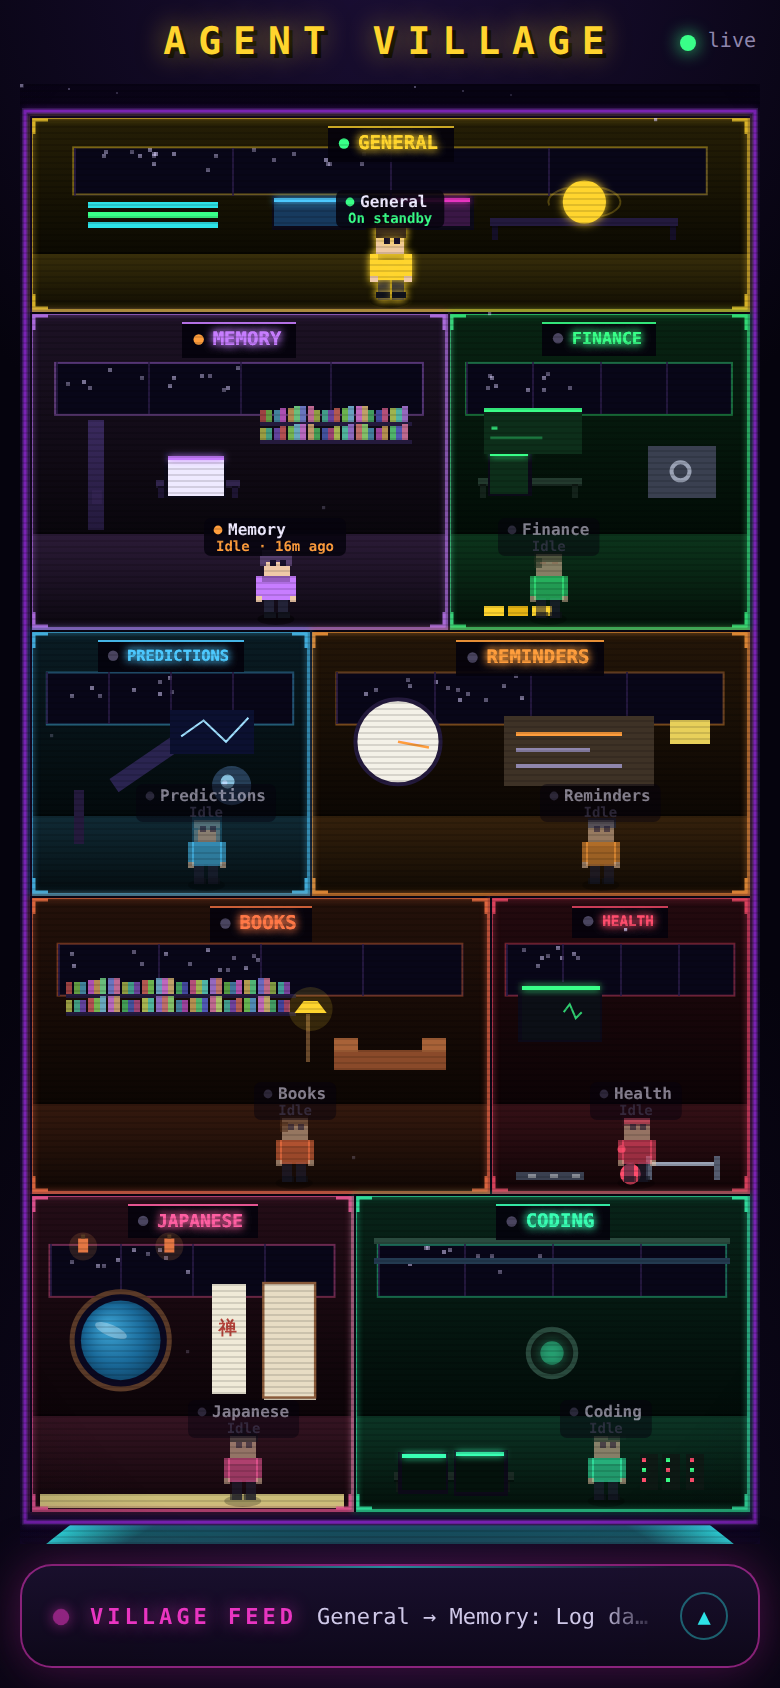
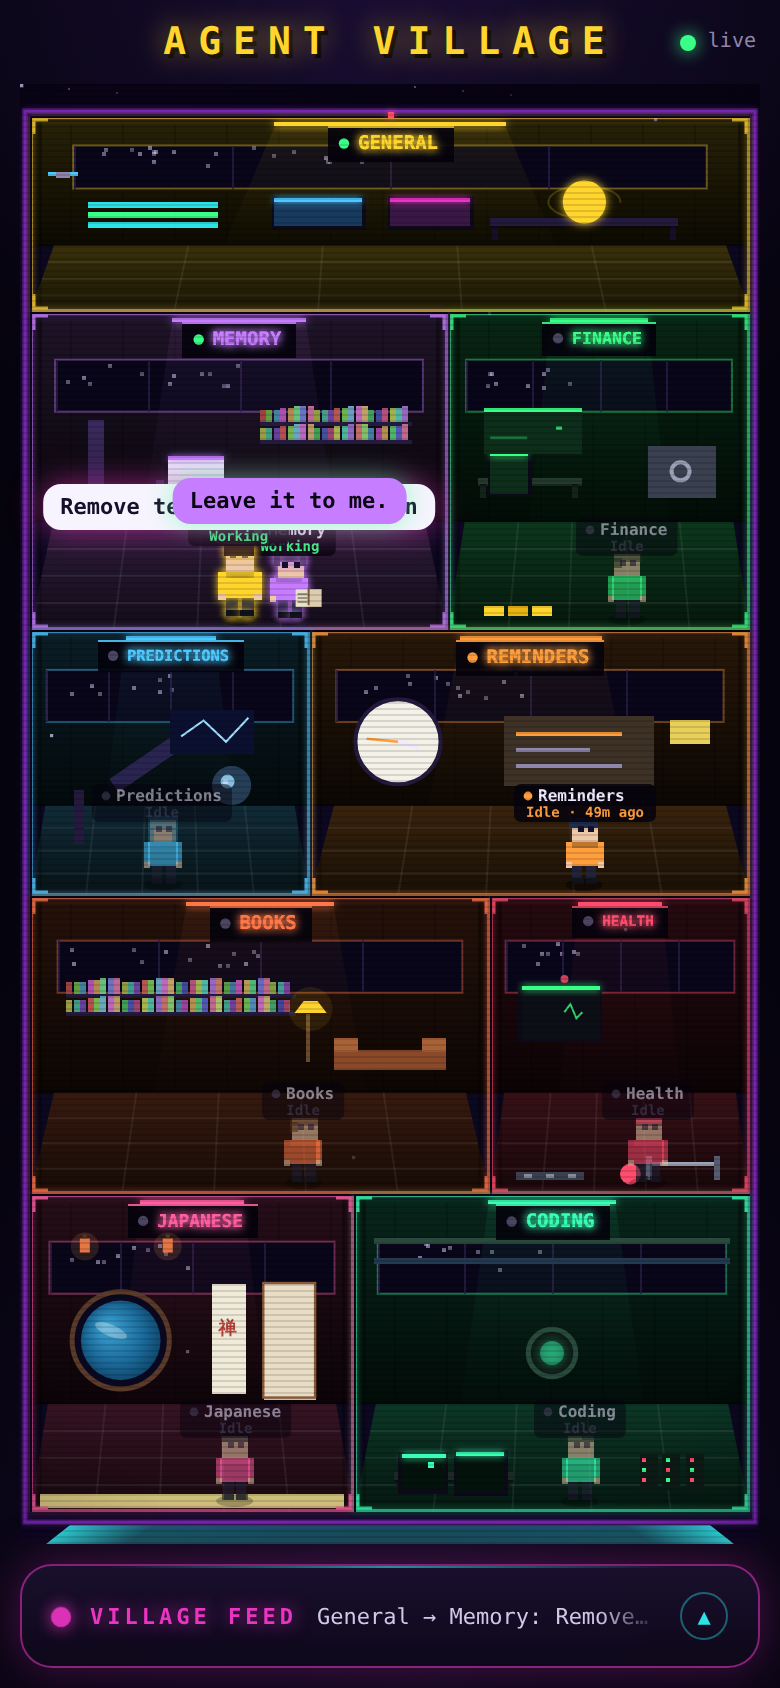
Task-centric panels, proper reply acks, feed mirrors bubbles, 3D depth pass
- Reply bubble never echoes the task: real reply only if newer than the
  delegation, else a per-event acknowledgment ('On it!', 'Leave it to me.'...)
  with a brief typing beat; longer visit dwell so replies are readable
- Room panels are task views now, not chat logs: agents show CURRENT TASK +
  TASK HISTORY (with replies), General shows a DELEGATION LOG (who/what/when)
- Village feed mirrors exactly the speech bubbles that appeared on screen
  (General's task line + the agent's real-or-ack reply)
- Pseudo-3D room boxes: ceiling fixtures casting light cones, perspective
  floor grids with converging lines, panel-seamed back walls, shaded side
  walls, beveled top/bottom edges — rooms read as lit boxes with depth
- Golden particle trail behind General while travelling

diff --git a/index.html b/index.html
@@ -100,6 +100,14 @@
   .cmsg.user{align-self:flex-end;background:#241a42;border:1px solid var(--line)}
   .cmsg.assistant{align-self:flex-start;background:var(--panel2);border:1px solid var(--acc,var(--line))}
   .cmsg .when{display:block;font-size:9px;color:var(--muted);margin-top:3px}
+  /* task-centric room panel */
+  .curcard{border:1px solid var(--acc,var(--line));background:rgba(255,255,255,.025);border-radius:12px;
+    padding:9px 11px;font-size:11.5px;line-height:1.5}
+  .curcard .lab{font-size:9px;font-weight:800;letter-spacing:2px;color:var(--acc,#aaa);margin-bottom:3px}
+  .trow{border:1px solid var(--line);background:var(--panel2);border-radius:11px;padding:8px 10px;font-size:11.5px;line-height:1.45}
+  .trow .meta{display:flex;gap:8px;align-items:center;font-size:9.5px;color:var(--muted);margin-bottom:3px;
+    font-weight:800;letter-spacing:1px}
+  .trow .rep{margin-top:5px;color:#cfc8e8;font-size:11px;border-left:2px solid var(--acc,#555);padding-left:8px}
 </style>
 </head>
 <body>
@@ -151,7 +159,13 @@ const STATION={
   health:{xf:0.24,act:'lift'},     japanese:{xf:0.52,act:'read'},
   coding:{xf:0.18,act:'type'},
 };
-const replyByAgent={};   // agent id -> latest reply text (for the reply bubble)
+const replyByAgent={};   // agent id -> {content, ts} latest real reply from its thread
+
+/* acknowledgment lines used when the agent hasn't written a real reply yet —
+   deterministic per event so bubble and feed always show the same text */
+const ACKS=['On it! 👍','Got it — right away.','Consider it done ✅','Roger that!',
+  'Leave it to me.','Copy that — starting now.','Sure thing!','Taking care of it 🔧'];
+function ackFor(id){let h=0;for(const c of String(id))h=(h*31+c.charCodeAt(0))>>>0;return ACKS[h%ACKS.length];}
 
 let AGENTS=[], byId={}, rooms={};
 let W=0,H=0,dpr=1, spineX=0, spineW=0, spineTop=0, spineBot=0;
@@ -279,19 +293,49 @@ function roomSign(r,name,st,neon){
 function drawRoom(a,r){
   const st=(byId[a.id]||{}).status||'offline', lit=litFactor(st), neon=a.neon;
   const {x,y,w,h}=r;
-  // interior fill (agent-tinted) + floor
-  const floorTop=y+h*0.70;
-  vgrad(bctx,x,y,w,floorTop-y,dim(neon,0.10+0.05*lit),dim(neon,0.05));
-  vgrad(bctx,x,floorTop,w,y+h-floorTop,dim(neon,0.16+0.06*lit),dim(neon,0.06));
-  R(bctx,x,floorTop-1,w,1,'rgba(0,0,0,.35)');
+  /* --- pseudo-3D box: back wall / ceiling cone / perspective floor / shaded side walls --- */
+  const floorTop=y+h*0.66, inset=Math.min(w*0.055,12);
+  // back wall with panel seams
+  vgrad(bctx,x,y,w,floorTop-y,dim(neon,0.11+0.05*lit),dim(neon,0.05));
+  for(let sx2=x+20;sx2<x+w-8;sx2+=26)R(bctx,sx2,y+4,1,floorTop-y-6,'rgba(0,0,0,.15)');
   // window strip near top showing stars
-  const wy=y+h*0.16, wh=Math.min(h*0.24,26);
+  const wy=y+h*0.15, wh=Math.min(h*0.22,26);
   starWindow(x+w*0.06,wy,w*0.88,wh);
   bctx.strokeStyle=lit>0.4?rgba(neon,0.4):'#2b1c47';bctx.lineWidth=1;bctx.strokeRect(x+w*0.06,wy,w*0.88,wh);
   for(let mx=x+w*0.06;mx<x+w*0.94;mx+=w*0.22)R(bctx,mx,wy,1,wh,'rgba(43,28,71,.8)');
+  // ceiling fixture + light cone
+  R(bctx,x,y,w,3,'#0c0818');
+  if(lit>0.4){
+    const lw=w*0.32, lx=x+w/2-lw/2;
+    bctx.save();bctx.shadowColor=neon;bctx.shadowBlur=8;R(bctx,lx,y+3,lw,2,neon);bctx.restore();
+    const g=bctx.createLinearGradient(0,y+5,0,y+h);
+    g.addColorStop(0,rgba(neon,0.09*lit));g.addColorStop(1,'transparent');
+    bctx.fillStyle=g;bctx.beginPath();
+    bctx.moveTo(lx,y+5);bctx.lineTo(lx+lw,y+5);
+    bctx.lineTo(lx+lw+w*0.11,y+h);bctx.lineTo(lx-w*0.11,y+h);bctx.closePath();bctx.fill();
+  }
+  // perspective floor (trapezoid + converging grid)
+  const fgr=bctx.createLinearGradient(0,floorTop,0,y+h);
+  fgr.addColorStop(0,dim(neon,0.15+0.08*lit));fgr.addColorStop(1,dim(neon,0.06+0.04*lit));
+  bctx.fillStyle=fgr;bctx.beginPath();
+  bctx.moveTo(x+inset,floorTop);bctx.lineTo(x+w-inset,floorTop);
+  bctx.lineTo(x+w,y+h);bctx.lineTo(x,y+h);bctx.closePath();bctx.fill();
+  bctx.strokeStyle=`rgba(255,255,255,${0.03+0.045*lit})`;bctx.lineWidth=1;
+  for(let i=1;i<4;i++){const t=i/4;
+    bctx.beginPath();
+    bctx.moveTo(x+inset*(1-t),floorTop+(y+h-floorTop)*t);
+    bctx.lineTo(x+w-inset*(1-t),floorTop+(y+h-floorTop)*t);bctx.stroke();}
+  for(let i=1;i<5;i++){const fx=x+inset+((w-2*inset)/5)*i, bx2=x+(w/5)*i;
+    bctx.beginPath();bctx.moveTo(fx,floorTop);bctx.lineTo(bx2,y+h);bctx.stroke();}
+  R(bctx,x,floorTop-1,w,1,'rgba(0,0,0,.35)');
+  // shaded side walls (depth)
+  vgrad(bctx,x,y,6,h,'rgba(0,0,0,.38)','rgba(0,0,0,.18)');
+  vgrad(bctx,x+w-6,y,6,h,'rgba(0,0,0,.38)','rgba(0,0,0,.18)');
   // per-agent interior
   (INTERIORS[a.id]||(()=>{}))(r,lit,neon,r.amb);
-  // room border (neon)
+  /* --- beveled frame (extruded look) --- */
+  R(bctx,x,y,w,2,'rgba(255,255,255,.06)');           // top edge catches light
+  R(bctx,x,y+h-2,w,2,'rgba(0,0,0,.45)');             // bottom edge in shadow
   bctx.save();bctx.shadowColor=neon;bctx.shadowBlur=lit>0.4?6:0;
   bctx.strokeStyle=rgba(neon,0.55);bctx.lineWidth=1.5;bctx.strokeRect(x+0.75,y+0.75,w-1.5,h-1.5);bctx.restore();
   R(bctx,x,y,w,1,'#0a0614');R(bctx,x,y,1,h,'#0a0614');
@@ -542,7 +586,7 @@ function stepWalker(dt){
   if(dist<=step){
     walker.x=tgt.x;walker.y=tgt.y;walker.seg++;
     if(walker.seg>=walker.path.length){
-      if(walker.state==='out'){walker.state='visit';walker.t=1.7;arriveFx={x:walker.x,y:walker.y,t:0};}
+      if(walker.state==='out'){walker.state='visit';walker.t=3.2;arriveFx={x:walker.x,y:walker.y,t:0};}
       else{walker.state='home';walker.task=null;actors.general.x=walker.x;}
     }
   }else{
@@ -671,6 +715,12 @@ function loop(ts){
   const seg=walker.path&&walker.path[walker.seg];
   const descending=moving&&seg&&Math.abs(seg.y-walker.y)>Math.abs(seg.x-walker.x)&&Math.abs(seg.y-walker.y)>2;
   const wbob=descending?Math.sin(time*3)*2:(moving?Math.abs(Math.sin(time*10))*1.5:0);
+  // glowing trail while General travels
+  walker.trail=walker.trail||[];
+  if(moving){walker.trail.push({x:walker.x,y:walker.y-wbob-6});if(walker.trail.length>22)walker.trail.shift();}
+  else if(walker.trail.length)walker.trail.splice(0,2);
+  walker.trail.forEach((p,i)=>{const al=(i/walker.trail.length)*0.4;
+    fctx.fillStyle=`rgba(255,213,46,${al})`;fctx.fillRect(p.x-1.2,p.y-1.2,2.4,2.4);});
   if(descending){ // hover platform + thruster sparks while moving between decks
     fctx.save();fctx.shadowColor='#2de2e6';fctx.shadowBlur=8;
     fctx.fillStyle='rgba(45,226,230,.85)';
@@ -694,19 +744,23 @@ function loop(ts){
     bubble.style.left=walker.x+'px';bubble.style.top=(walker.y-wbob-15*s)+'px';
   } else bubble.classList.remove('show');
 
-  // Target agent's reply bubble — appears shortly after General arrives
+  // Target agent's reply bubble — a "typing" beat, then its reply.
+  // Real reply from its thread only if newer than this delegation; otherwise a
+  // proper acknowledgment (never echo the task text back).
   if(walker.state==='visit'&&walker.task){
     const to=walker.task.to, tr=rooms[to], toInfo=byId[to]||{};
-    const dwell=1.7-walker.t;                 // seconds since arrival
-    if(tr&&dwell>0.45){
-      const txt=replyByAgent[to]||toInfo.currentTask||'On it…';
+    const dwell=3.2-walker.t;                 // seconds since arrival
+    if(tr&&dwell>0.35){
+      const rb=replyByAgent[to];
+      const real=(rb&&rb.ts>walker.task.ts)?rb.content:null;
+      const txt=dwell<0.95 ? '…' : (real||ackFor(walker.task.id));
       const ax=(actors[to]&&actors[to].x)||tr.cx;
       rbubble.textContent=txt;
       rbubble.style.background=toInfo.neon||'#39ff88';
       rbubble.style.color='#0a0614';
       rbubble.classList.add('show');
       rbubble.style.left=ax+'px';rbubble.style.top=(tr.feetY-16*s)+'px';
-      if(!replyByAgent[to]&&!walker._fetchedReply){walker._fetchedReply=true;loadFeed();}
+      if(!real&&!walker._fetchedReply){walker._fetchedReply=true;loadFeed();}
     } else rbubble.classList.remove('show');
   } else {rbubble.classList.remove('show');if(walker.state!=='visit')walker._fetchedReply=false;}
 
@@ -739,12 +793,16 @@ async function loadFeed(){
     const d=await fetch('api/feed').then(r=>r.json());
     const feed=d.feed||[];
     if(!feed.length){feedEl.innerHTML='<div class="empty-feed">no delegations yet</div>';return;}
-    feed.forEach(ev=>{seenDeleg.add(ev.id); if(ev.reply)replyByAgent[ev.to]=ev.reply.content;});
+    feed.forEach(ev=>{seenDeleg.add(ev.id);
+      if(ev.reply)replyByAgent[ev.to]={content:ev.reply.content,ts:ev.reply.ts};});
+    // feed mirrors the speech bubbles: General's task line + the agent's reply
+    // (real reply if it exists, otherwise the same acknowledgment shown on screen)
     feedEl.innerHTML=feed.map(ev=>{
       const to=byId[ev.to]||{name:ev.to,emoji:'',neon:'#e935c1'};
-      let html=`<div class="msg general"><div class="who">⚙ GENERAL → ${to.emoji} ${esc((to.name||'').toUpperCase())} <span class="when">${rel(ev.ts)}</span></div>${esc(ev.reason||'delegated a task')}</div>`;
-      if(ev.reply) html+=`<div class="msg agent" style="border-color:${to.neon}66"><div class="who" style="color:${to.neon}">${to.emoji} ${esc((to.name||'').toUpperCase())} <span class="when">${rel(ev.reply.ts)}</span></div>${esc(ev.reply.content)}</div>`;
-      return html;
+      const replyTxt=ev.reply?ev.reply.content:ackFor(ev.id);
+      const replyTs=ev.reply?ev.reply.ts:ev.ts;
+      return `<div class="msg general"><div class="who">⚙ GENERAL → ${to.emoji} ${esc((to.name||'').toUpperCase())} <span class="when">${rel(ev.ts)}</span></div>${esc(ev.reason||'delegated a task')}</div>`
+        +`<div class="msg agent" style="border-color:${to.neon}66"><div class="who" style="color:${to.neon}">${to.emoji} ${esc((to.name||'').toUpperCase())} <span class="when">${rel(replyTs)}</span></div>${esc(replyTxt)}</div>`;
     }).join('');
     const last=feed[feed.length-1];
     dockLast.textContent=`General → ${(byId[last.to]||{}).name||last.to}: ${last.reason||''}`;
@@ -768,25 +826,42 @@ async function openSheet(id){
     <div><h2>${esc(a.name||id)}</h2>
     <div class="st"><span class="dot" style="background:${DOT_HEX[a.status]||'#4a4560'};box-shadow:0 0 6px ${DOT_HEX[a.status]||'transparent'}"></span>${esc(a.statusLabel||'')} · last: ${esc(last)}</div></div>
     <button class="x" onclick="closeSheet()">✕</button>`;
-  const working=a.status==='working';
-  const doing=working
-    ? (a.currentTask?`Working on: ${esc(a.currentTask)}`:'Working on a task')
-    : (a.status==='active'?'Coordinating the village':`Nothing right now — ${esc(a.statusLabel||'idle')}`);
-  sheetDesc.innerHTML=`<div style="display:flex;gap:7px;align-items:center;margin-bottom:5px">
-      <span style="width:6px;height:6px;border-radius:50%;background:${DOT_HEX[a.status]||'#4a4560'};box-shadow:0 0 6px ${DOT_HEX[a.status]||'transparent'};flex:none"></span>
-      <b style="color:${a.neon||'#efeaff'};letter-spacing:1px;font-size:10px">CURRENTLY</b>
-      <span style="color:#cfc8e8">${doing}</span></div>
-    <div style="opacity:.65">${esc(a.description||'')}</div>`;
+  sheetDesc.innerHTML=`<div style="opacity:.7">${esc(a.description||'')}</div>`;
   sheetChat.innerHTML='<div class="lbl">LOADING…</div>';
   sheet.classList.add('open');sheetBack.classList.add('open');
-  try{
-    const d=await fetch(`api/messages/${a.thread}`).then(r=>r.json());
-    const msgs=d.messages||[];
-    sheetChat.innerHTML='<div class="lbl">INTERNAL CHAT</div>'+(msgs.length?
-      msgs.map(m=>`<div class="cmsg ${m.role==='user'?'user':'assistant'}" style="--acc:${a.neon||'#332552'}66">${esc(m.content)}<span class="when">${rel(m.ts)}</span></div>`).join('')
-      :'<div class="lbl">NO MESSAGES YET</div>');
-    sheetChat.scrollTop=sheetChat.scrollHeight;
-  }catch(err){sheetChat.innerHTML='<div class="lbl">FAILED TO LOAD</div>';}
+  let feed=[];
+  try{feed=(await fetch('api/feed?limit=40').then(r=>r.json())).feed||[];}catch(e){}
+  const acc=a.neon||'#8f86ad';
+  const row=ev=>{
+    const to=byId[ev.to]||{name:ev.to,emoji:'',neon:acc};
+    const replyTxt=ev.reply?ev.reply.content:ackFor(ev.id);
+    return `<div class="trow" style="--acc:${to.neon}">
+      <div class="meta"><span style="color:${to.neon}">→ ${to.emoji} ${esc((to.name||'').toUpperCase())}</span><span>${rel(ev.ts)}</span></div>
+      ${esc(ev.reason||'delegated a task')}
+      <div class="rep">${esc(replyTxt)}</div></div>`;
+  };
+  if(a.isHub){
+    // General: who he delegated what to
+    const log=feed.slice().reverse();
+    sheetChat.innerHTML='<div class="lbl">DELEGATION LOG</div>'+
+      (log.length?log.map(row).join(''):'<div class="lbl">NO DELEGATIONS YET</div>');
+  }else{
+    // Agent: what it is doing now + its task history
+    const mine=feed.filter(ev=>ev.to===id).reverse();
+    const curEv=mine[0];
+    const working=a.status==='working';
+    const curHtml=`<div class="curcard" style="--acc:${acc}">
+      <div class="lab" style="color:${acc}">CURRENT TASK</div>
+      ${working
+        ? esc(a.currentTask||(curEv&&curEv.reason)||'Working on a task')
+          +(curEv&&curEv.reply?`<div class="rep" style="--acc:${acc};margin-top:5px">${esc(curEv.reply.content)}</div>`:'')
+        : `<span style="color:#8f86ad">Nothing right now — ${esc(a.statusLabel||'idle')}</span>`}
+    </div>`;
+    const hist=mine.filter(ev=>!(working&&curEv&&ev.id===curEv.id));
+    sheetChat.innerHTML=curHtml+'<div class="lbl" style="margin-top:8px">TASK HISTORY</div>'+
+      (hist.length?hist.map(row).join(''):'<div class="lbl">NO TASKS YET</div>');
+  }
+  sheetChat.scrollTop=0;
 }
 function closeSheet(){sheet.classList.remove('open');sheetBack.classList.remove('open');}
 sheetBack.addEventListener('click',closeSheet);
